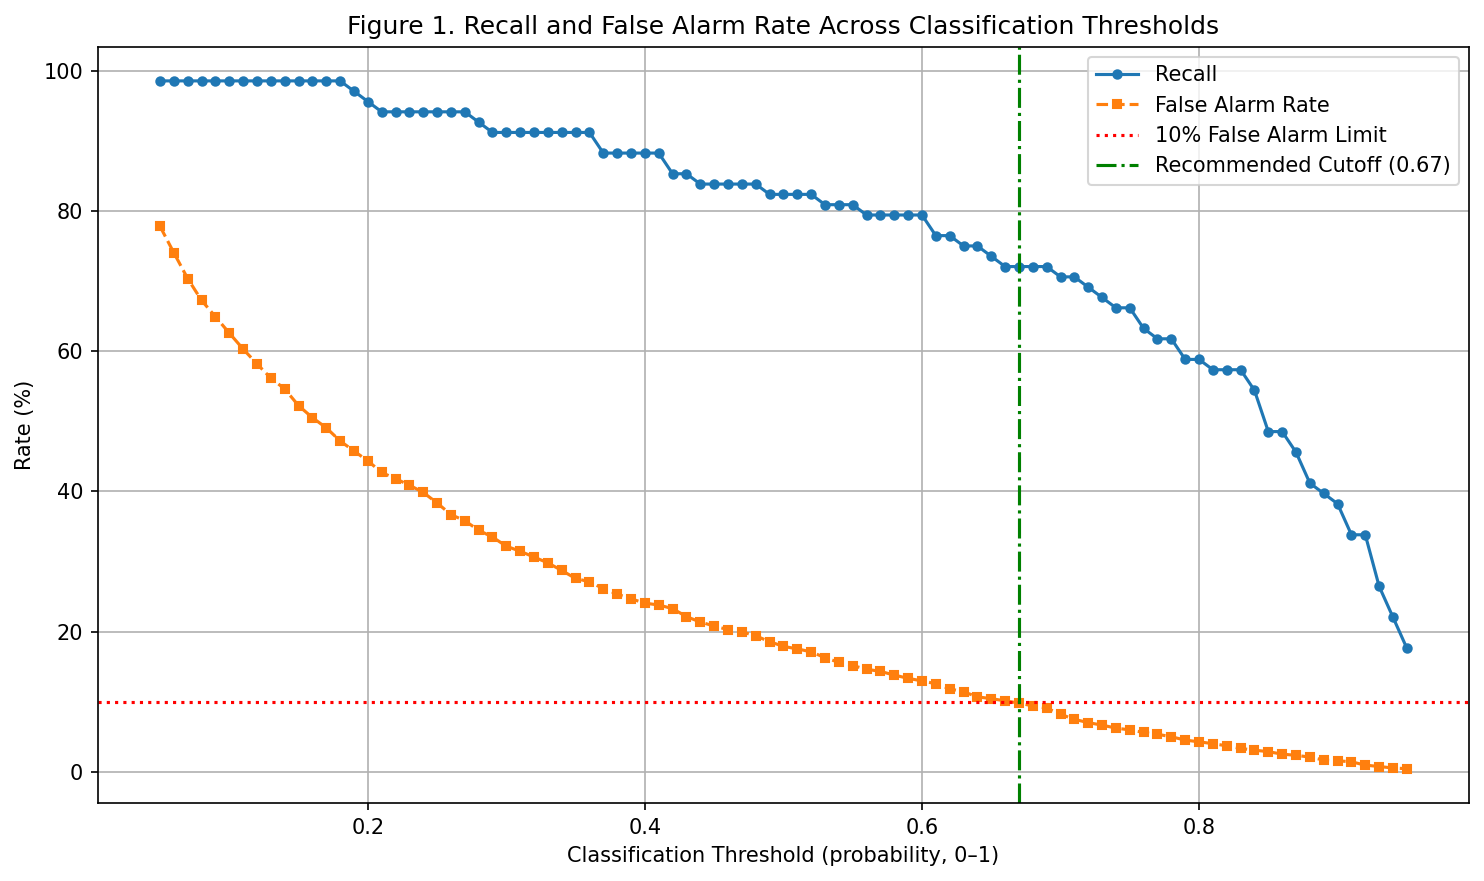
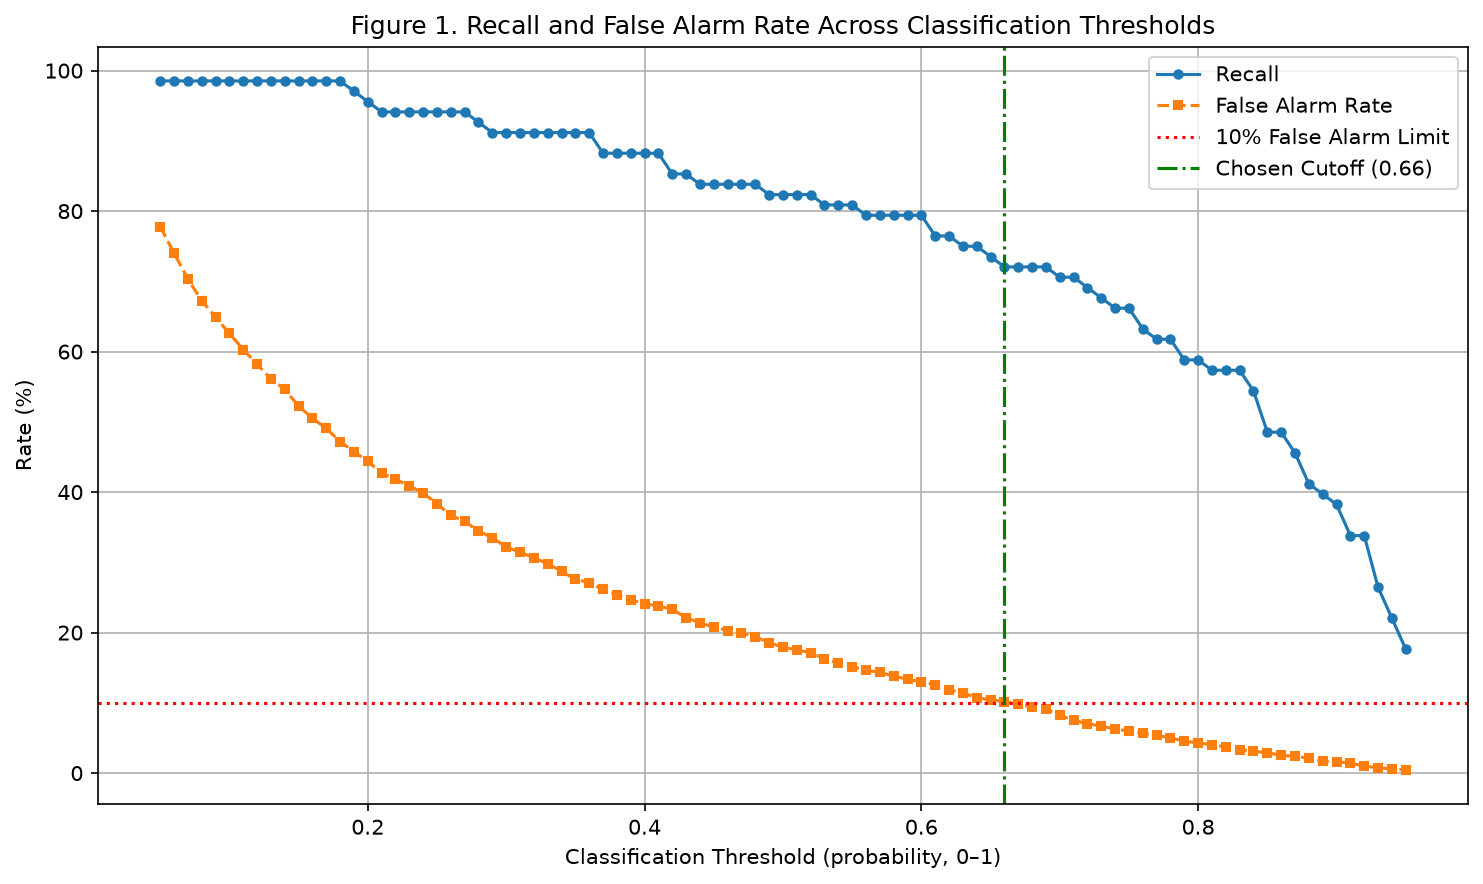
Mark 0.66 cutoff in Figure 1

diff --git a/notebooks/threshold_sweep.py b/notebooks/threshold_sweep.py
@@ -238,11 +238,14 @@ plt.axhline(
     label='10% False Alarm Limit'
 )
 
+# Cutoff chosen on the validation split
+CHOSEN_CUTOFF = 0.66
+
 plt.axvline(
-    recommended['Threshold'],
+    CHOSEN_CUTOFF,
     color='green',
     linestyle='-.',
-    label=f"Recommended Cutoff ({recommended['Threshold']:.2f})"
+    label=f"Chosen Cutoff ({CHOSEN_CUTOFF:.2f})"
 )
 
 plt.xlabel('Classification Threshold (probability, 0–1)')
